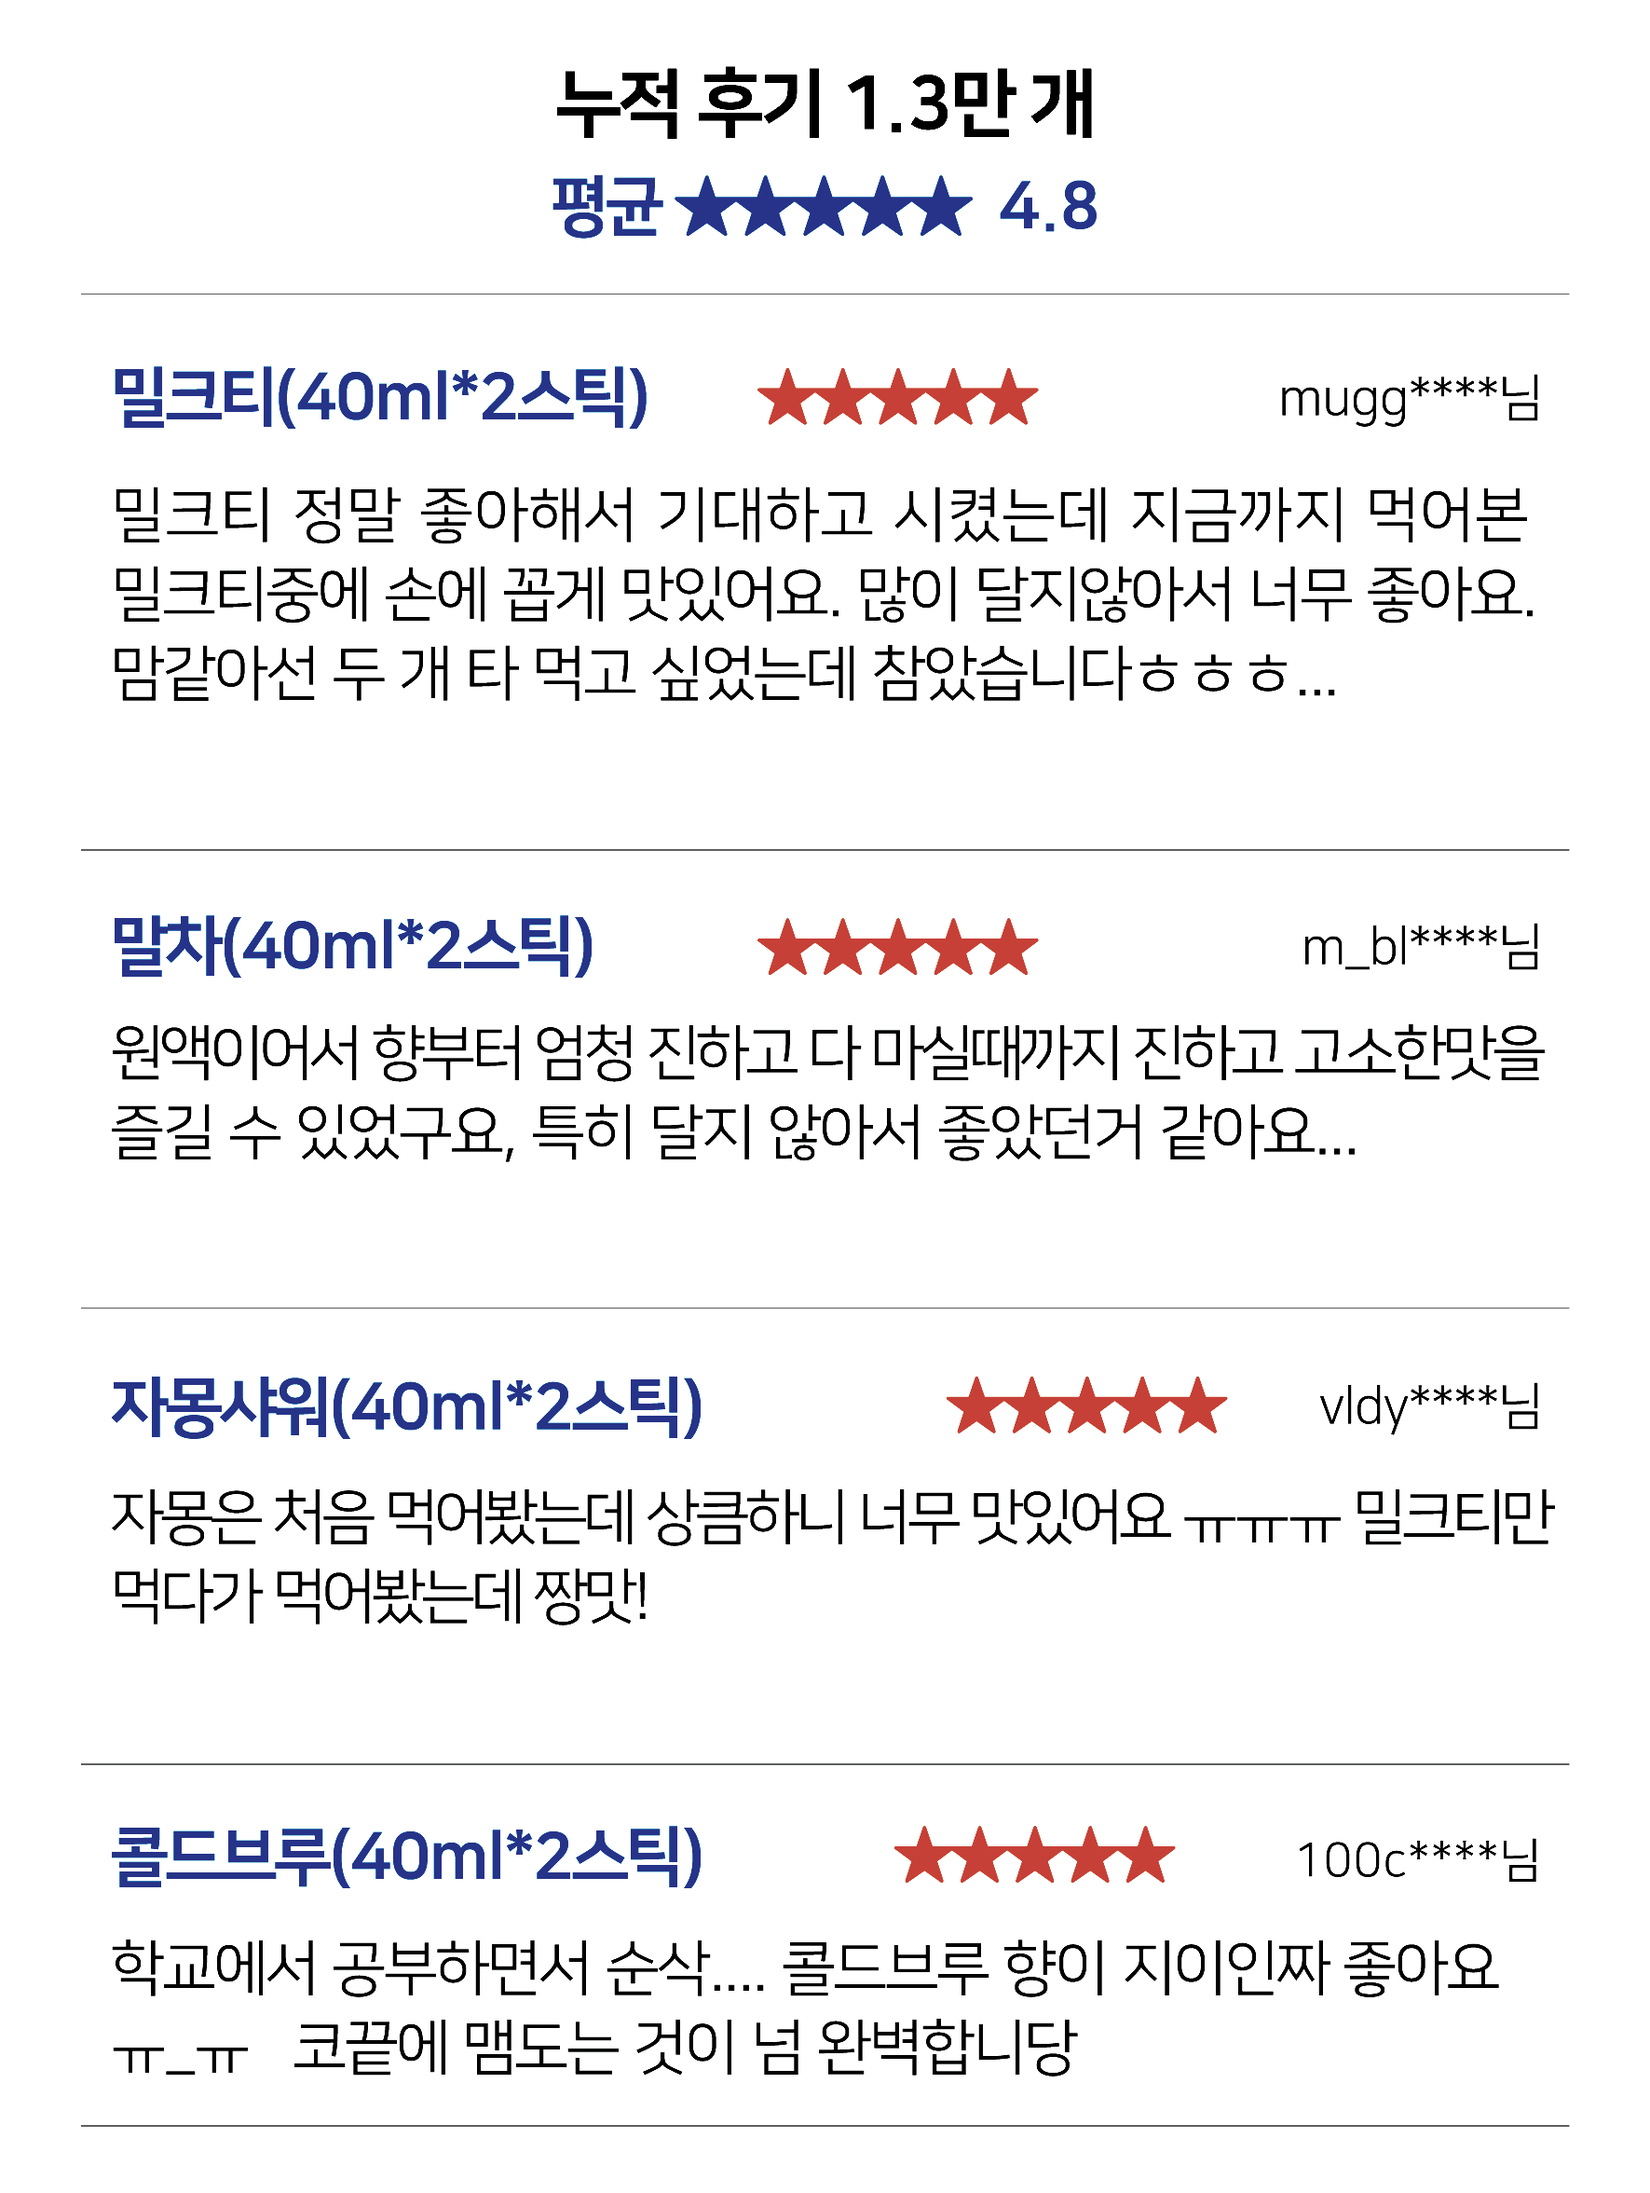
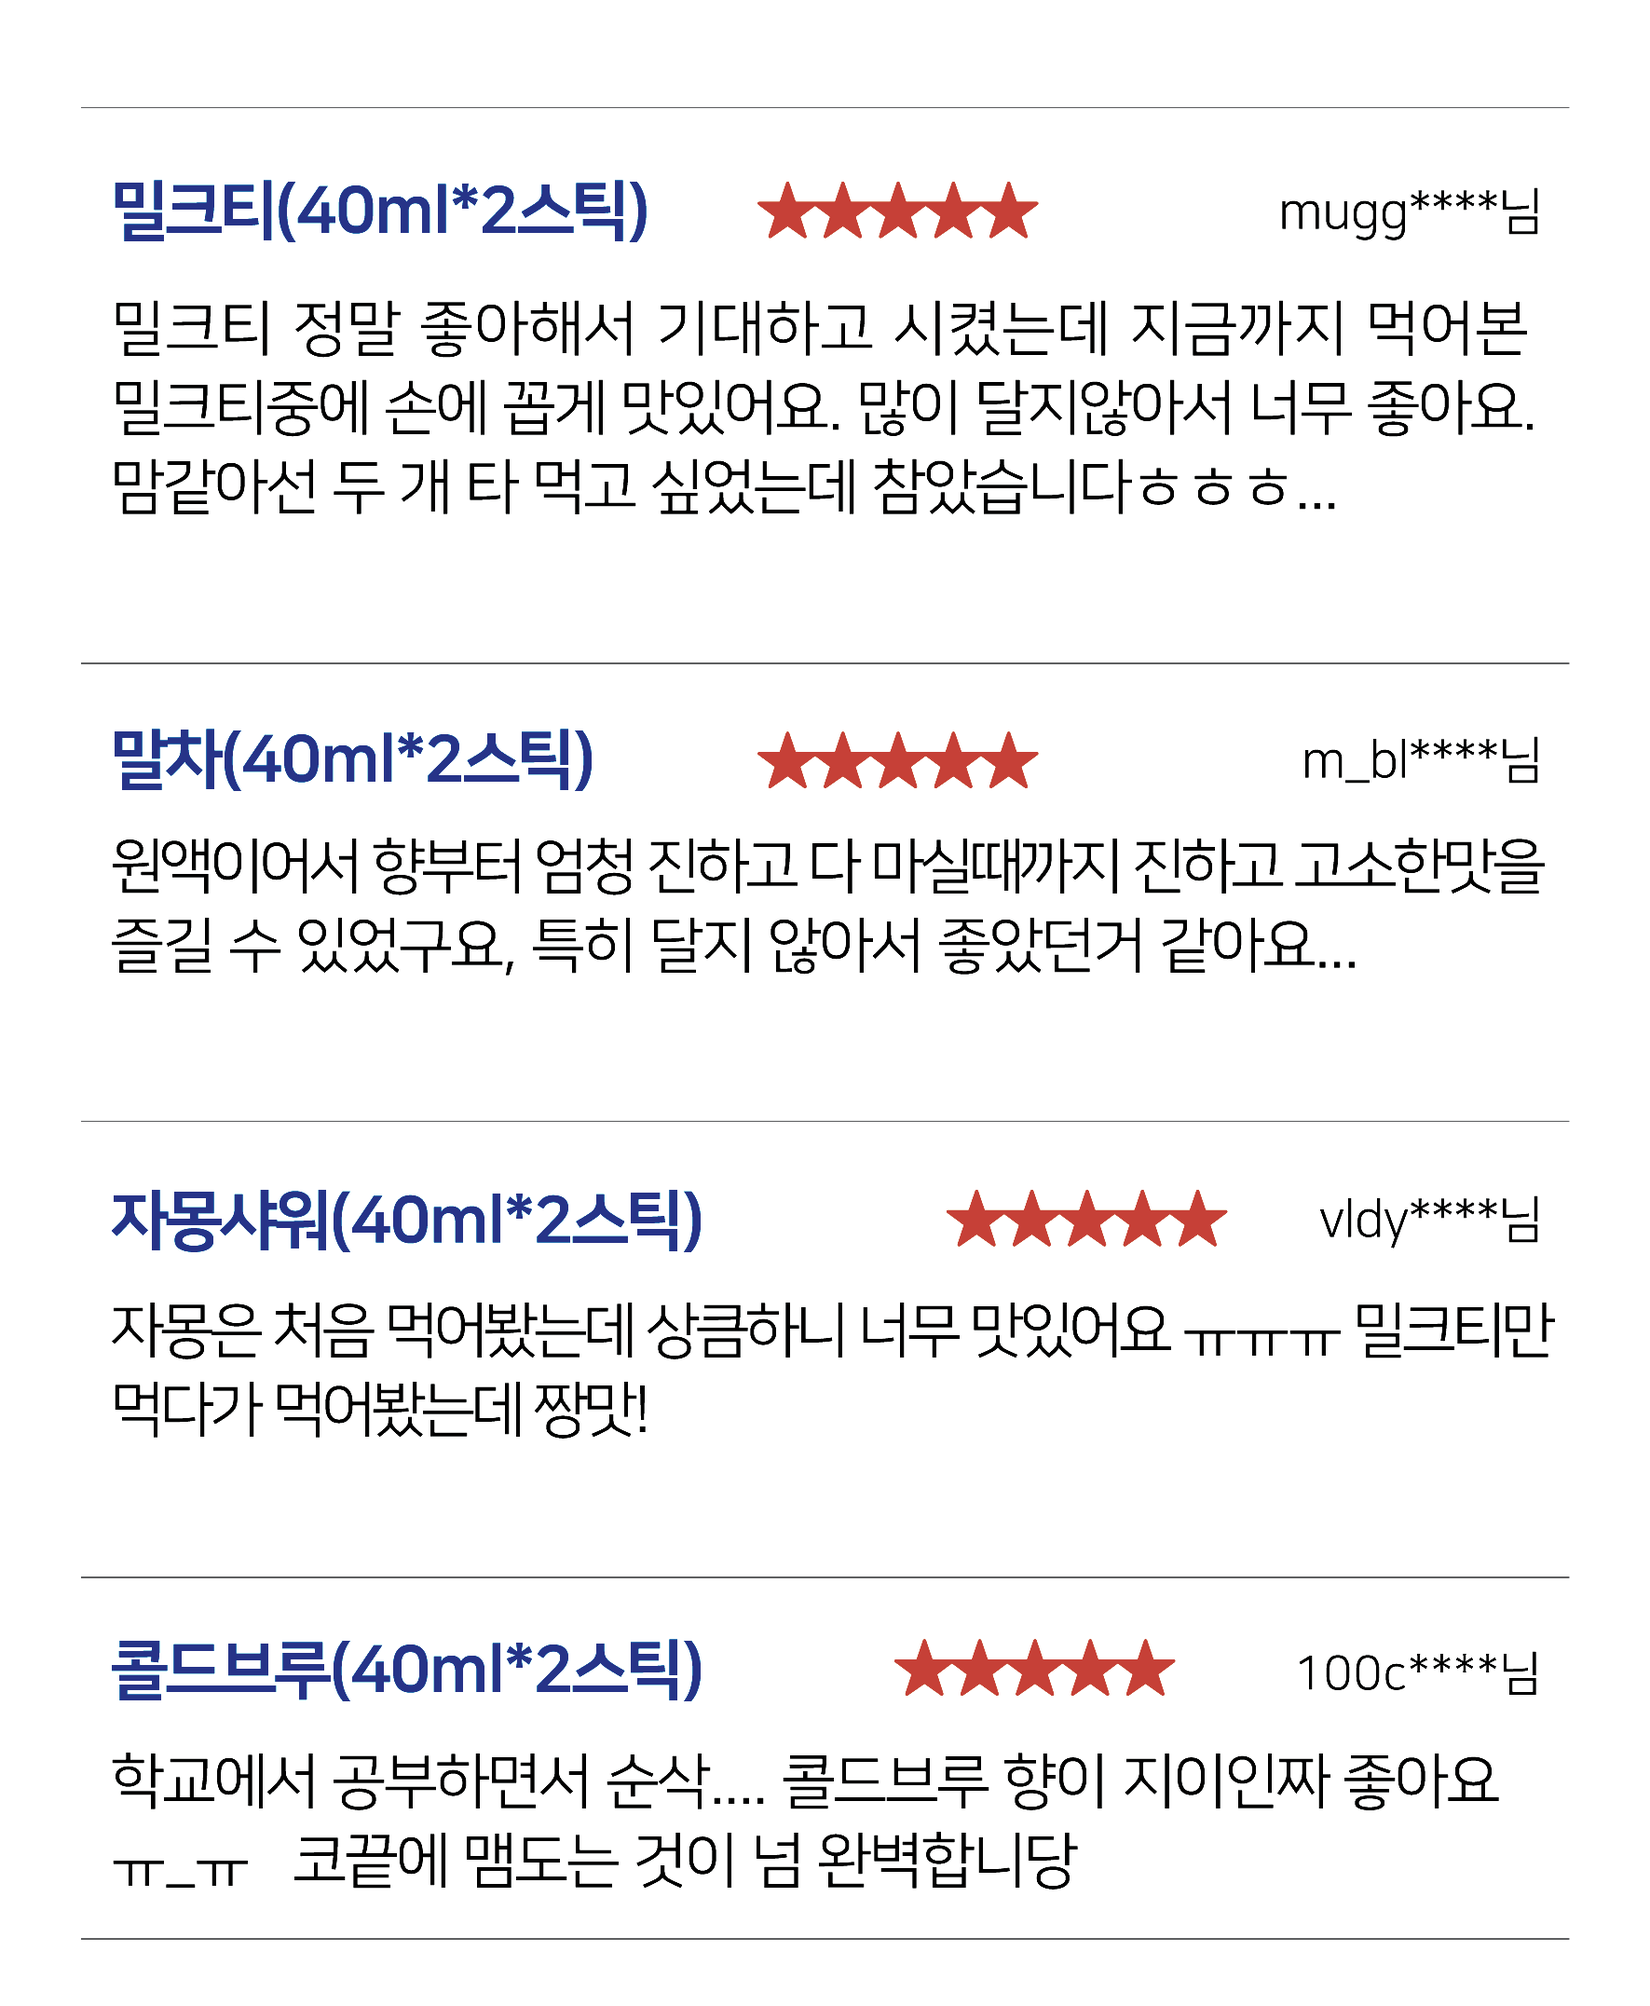
메인페이지 리뷰 이미지 반응형 수정

diff --git a/WebContent/css/main.css b/WebContent/css/main.css
@@ -194,9 +194,11 @@ a {
 	padding-bottom: 140px;
 }
 
-.review_img > a> img{
-	max-width: 100%; 
-	height: auto;
+.review_img{
+	height: 800px; 
+	background-image: url("../css/images/review_large.png");
+	background-size: contain;
+	background-repeat: no-repeat;
 }
 
 .f7{
@@ -235,6 +237,38 @@ a {
 	color: #fff;
 }
 
+
+/* 컨텐츠3 미디어쿼리 */
+@media (max-width: 1000px){
+	.review_img{
+		height: 700px; 
+		background-image: url("../css/images/review_large.png");
+		background-size: contain;
+		background-repeat: no-repeat;
+		background-position: center center;
+	}
+}
+
+
+@media (max-width: 800px){
+	.review_img{
+		height: 800px; 
+		background-image: url("../css/images/review_small.png");
+		background-size: contain;
+		background-repeat: no-repeat;
+		background-position: center center;
+	}
+}
+
+@media (max-width: 700px){
+	.review_img{
+		height: 600px; 
+		background-image: url("../css/images/review_small.png");
+		background-size: contain;
+		background-repeat: no-repeat;
+		background-position: center center;
+	}
+}
 /* --------------------------------------------- */
 
 
